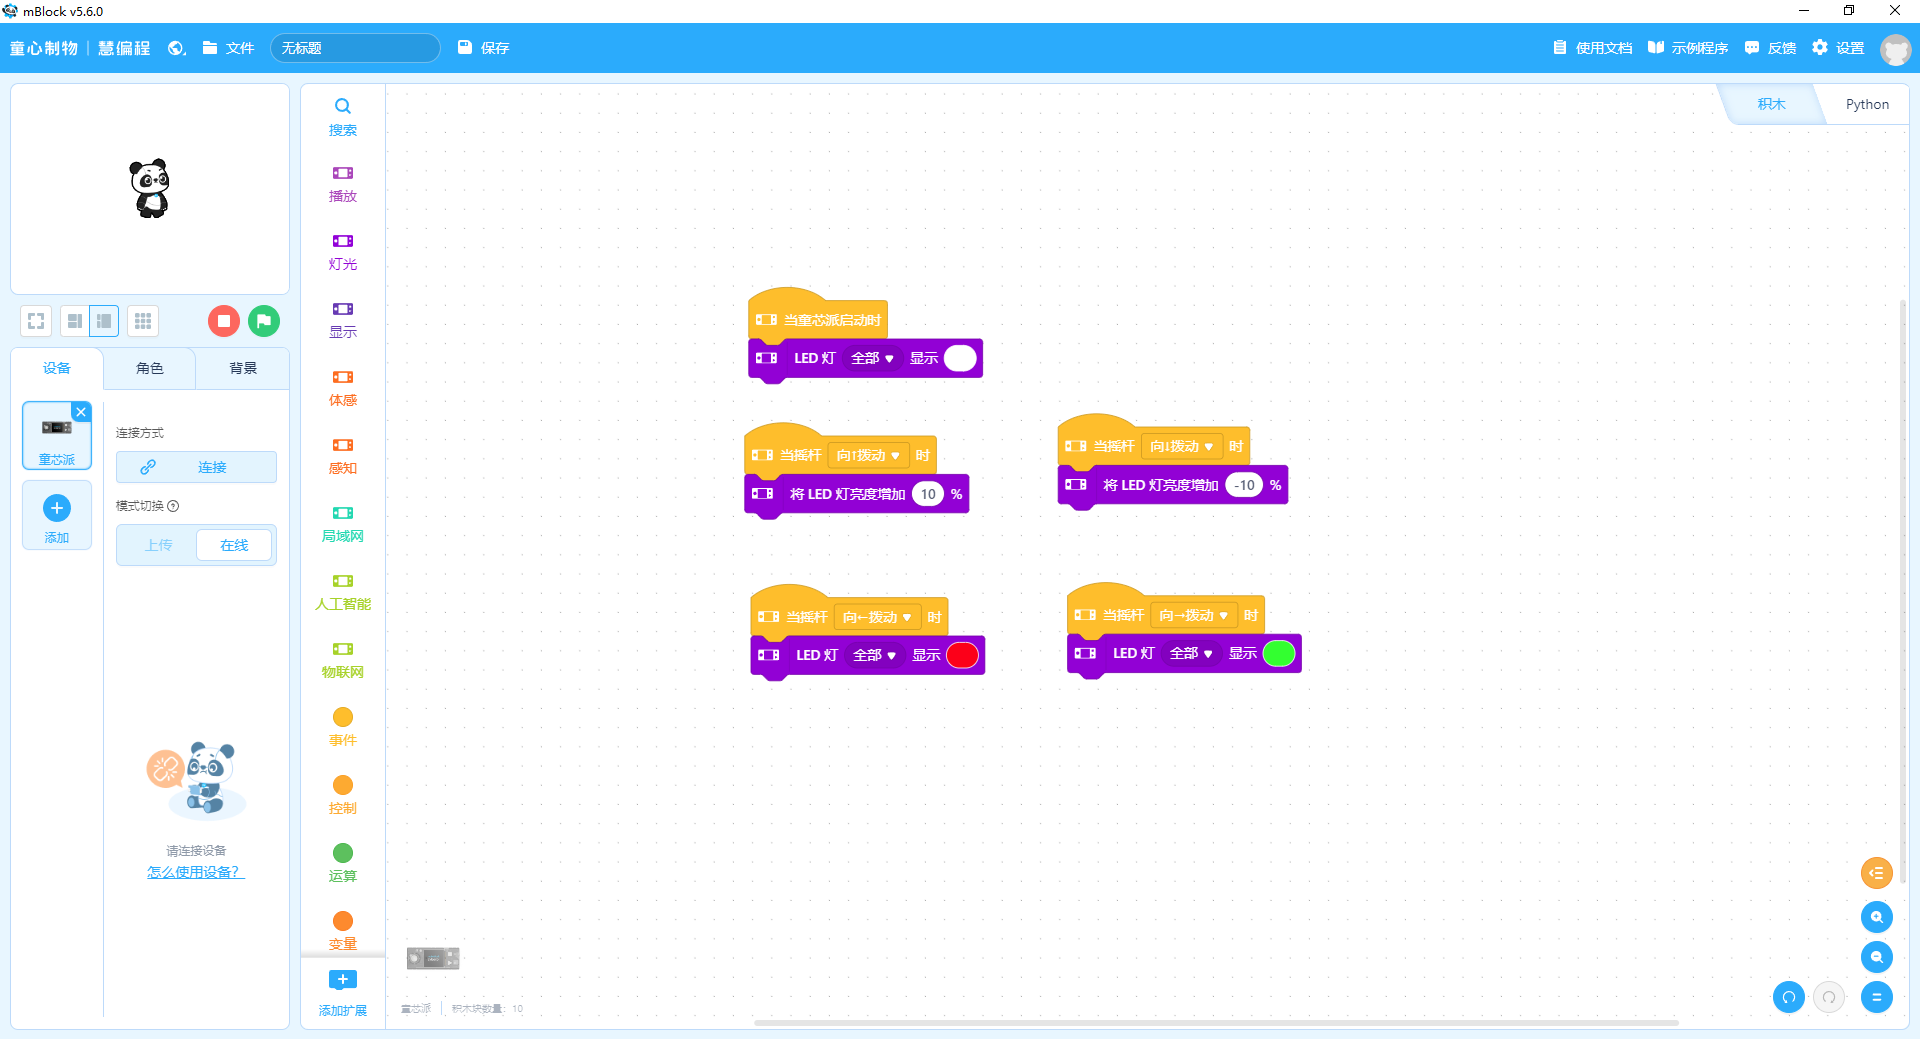
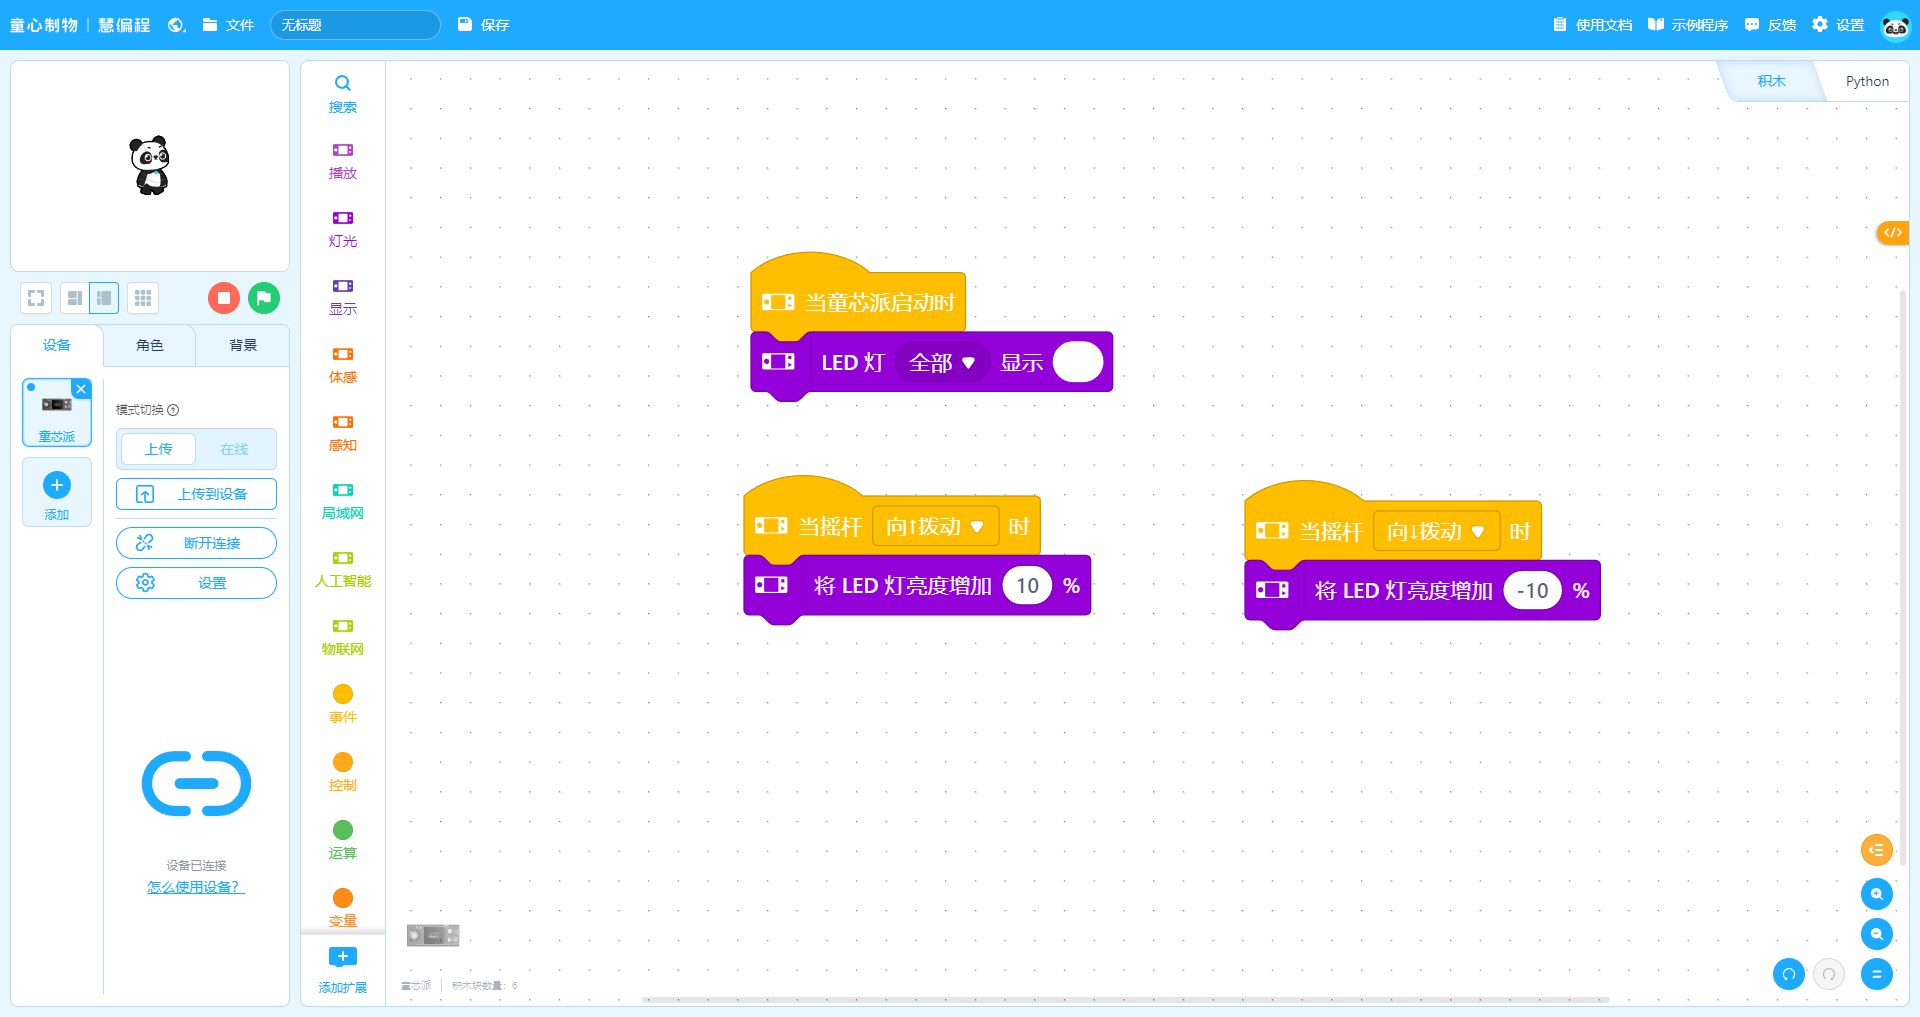
L10改版为摇杆调光器：00截图(上拨+10%/下拨-10%)→积木搭建示意图，01截图(四方向点亮LED灯1-4)→编程任务答案，同步标题/步骤/升级路线

diff --git a/AI编程探险课_CyberPi/index.html b/AI编程探险课_CyberPi/index.html
@@ -1110,18 +1110,18 @@ const LESSONS_2 = [
   quiz:[{q:"按A开灯、按B关灯，两个动作分别用什么事件？",o:["启动事件","按钮A/按钮B事件","摇杆事件","广播事件"],a:1,exp:"每个按钮有自己独立的事件积木，各管各的动作。"},{q:"“如果…那么…否则”属于哪个分类？",o:["事件","控制","显示","声音"],a:1,exp:"「如果…那么…否则」在控制分类里，让程序根据条件做选择。"},{q:"想让灯熄灭时屏幕显示“灯已关”，放在哪里？",o:["按钮A事件下","按钮B事件下","启动事件下","循环外"],a:1,exp:"放在「当按键 B 按下时」下面，按B关灯时就会显示。"}]
 },
 {
-  id:10, ch:2, title:"方向指挥灯", theme:"摇杆方向 · 多路输出",
-  echoId:10, echoTitle:"隔空指挥", echoBrief:"摇杆指挥灯带变色，屏幕同步显示方向",
-  story:"CyberPi上有一个摇杆，可以向不同方向拨动。团团想当小小指挥家：摇杆拨向哪里，CyberPi就用灯色和屏幕文字告诉大家方向。上=红色、下=蓝色、左=绿色、右=黄色，按压摇杆就恢复原样！",
-  knowledge:["认识摇杆（四方向+按压）","方向与灯色、文字一一对应","多路输入对应多路输出"],
-  blocks:[["事件", "当CyberPi启动时"], ["灯", "LED灯 全部 显示 白色"], ["事件", "当摇杆 向↑拨动 时"], ["灯", "LED灯 全部 显示 红色"], ["显示", "显示文字「上」"], ["事件", "当摇杆 向↓拨动 时"], ["灯", "LED灯 全部 显示 蓝色"], ["显示", "显示文字「下」"], ["事件", "当摇杆 向←拨动 时"], ["灯", "LED灯 全部 显示 绿色"], ["显示", "显示文字「左」"], ["事件", "当摇杆 向→拨动 时"], ["灯", "LED灯 全部 显示 黄色"], ["显示", "显示文字「右」"], ["事件", "当摇杆 被按压 时"], ["灯", "熄灭 LED灯 全部"], ["显示", "清空屏幕"]],
-  projName:"方向指挥灯",
-  projEff:"摇杆拨向哪个方向，灯带亮起对应颜色，屏幕同时显示方向文字；按压摇杆灯灭、屏幕清空，恢复初始状态。",
-  steps:["连接CyberPi并切换到上传模式", "拖入「当CyberPi启动时」，下方放「LED灯 全部 显示 白色」作为初始状态", "拖入「当摇杆 向↑拨动 时」，下方放「LED灯 全部 显示 红色」", "再接「显示文字“上”」，屏幕显示方向", "依次为下、左、右三个方向配置灯色和文字", "拖入「当摇杆 被按压 时」，下方放「熄灭 LED灯 全部」和「清空屏幕」", "上传后拨动四个方向、按压摇杆，观察灯色、文字和复位"],
-  challenge:"给每个方向搭配一个音效：上=嗨、下=拜、左=哔哔、右=打呼。",
-  tip:"摇杆有上、下、左、右、按压五个事件，就像五个按钮。每个事件下都可以放灯、屏幕、声音等输出积木，组合出各种玩法。",
+  id:10, ch:2, title:"摇杆调光器", theme:"摇杆 · 亮度调节",
+  echoId:10, echoTitle:"摇杆调光", echoBrief:"上拨变亮、下拨变暗，摇杆当调光旋钮",
+  story:"CyberPi的灯带不仅会变颜色，还能调节亮暗。团团想把灯带变成一盏可以调光的台灯：上拨摇杆变亮，下拨摇杆变暗。今天我们就用摇杆做一个小小调光器！",
+  knowledge:["认识摇杆（四方向+按压）","用摇杆方向控制亮度数值增减","数值调节让灯光亮暗可控"],
+  blocks:[["事件", "当CyberPi启动时"], ["灯", "LED灯 全部 显示"], ["事件", "当摇杆 向↑拨动 时"], ["灯", "将LED灯亮度增加 10 %"], ["事件", "当摇杆 向↓拨动 时"], ["灯", "将LED灯亮度增加 -10 %"]],
+  projName:"摇杆调光器",
+  projEff:"启动后灯带亮起；上拨摇杆亮度增加10%，下拨摇杆亮度减少10%，像调光旋钮一样控制灯光。",
+  steps:["连接CyberPi并切换到上传模式", "拖入「当CyberPi启动时」，下方放「LED灯 全部 显示」让灯带先亮起来", "拖入「当摇杆 向↑拨动 时」，下方放「将LED灯亮度增加 10 %」", "再拖入「当摇杆 向↓拨动 时」，下方放「将LED灯亮度增加 -10 %」", "上传后上拨摇杆灯变亮、下拨摇杆灯变暗，像调光旋钮一样控制亮度"],
+  challenge:"给调光器加点花样：试试每次增加20%，亮得更快；或者用左右方向切换灯带颜色。",
+  tip:"「将LED灯亮度增加 10 %」在现有亮度上再加10%（范围0-100%），用「增加 -10 %」就能变暗。上拨下拨配合，灯光就听你的话。",
   hardware:["CyberPi / 童芯派","Type-C 数据线","摇杆（内置）","RGB灯带","显示屏"],
-  quiz:[{q:"摇杆一共有几个独立事件？",o:["3个","4个","5个（四方向+按压）","2个"],a:2,exp:"上、下、左、右四个方向，再加上按压，一共5个事件。"},{q:"向上拨动摇杆，灯带亮什么颜色？",o:["红色","蓝色","绿色","黄色"],a:0,exp:"每个方向对应一种颜色：上红、下蓝、左绿、右黄。"},{q:"想恢复初始状态（灯灭、屏幕清空），用什么事件？",o:["当按键 A 按下","当摇杆 被按压 时","当CyberPi启动时","当摇杆 向↑拨动 时"],a:1,exp:"按压摇杆触发复位：灯熄灭、屏幕清空。"}]
+  quiz:[{"q": "上拨摇杆，灯光会怎样？", "o": ["变亮", "变暗", "熄灭", "不变"], "a": 0, "exp": "上拨对应「亮度增加 10 %」，灯光变亮。"}, {"q": "想让灯光变暗，应该让亮度？", "o": ["增加10%", "减少10%", "设为0", "不变"], "a": 1, "exp": "用「将LED灯亮度增加 -10 %」，亮度就降下来。"}, {"q": "亮度调节的范围是？", "o": ["0%到100%", "1%到50%", "永远不变", "随机变化"], "a": 0, "exp": "亮度在0%到100%之间变化，0%最暗、100%最亮。"}],
 },
 {
   id:11, ch:2, title:"彩虹变色灯", theme:"循环结构 · RGB循环",
@@ -1449,7 +1449,7 @@ const CURRICULUM_REFINEMENTS = {
   7:{meaning:"麦克风把声音大小变成数字（响度），程序读取并显示。学会读取传感器数值是感知环境的基础。",observe:"说话和拍手时，响度数值分别是多少？哪个更大？",hook:"点点对着CyberPi喊了一声，屏幕数字跳得好高，它“听见”了什么？",goal:"CyberPi启动后循环读取声音响度并实时显示在屏幕上。",watch:"轻声说话、大声喊、拍手，看看数值怎么变，记住每个动作的“分数”。",transfer:{name:"声音冠军赛",eff:"和同学比赛：谁的声音能让响度数值最高？",steps:["复制声音测量仪程序","同学A大声喊出自己名字，记录最高数值","同学B接着喊，记录最高数值","比较两人成绩，宣布声音冠军","再试唱歌、拍手等不同方式"],challenge:"设置一个“目标分数”（如80），达到时让灯亮一下。"}},
   8:{meaning:"陀螺仪能测量X、Y、Z三个轴的转动角度，理解设备在空间中的姿态。多传感器数据可同时显示。",observe:"左右倾斜时X轴怎么变？前后倾斜时Y轴怎么变？",hook:"团团把CyberPi转来转去，屏幕数字跟着变，它怎么知道自己怎么转的？",goal:"CyberPi启动后交替显示X轴和Y轴的转动角度，随设备倾斜实时变化。",watch:"前后左右倾斜CyberPi，看X、Y轴数字的变化方向，找出规律。",transfer:{name:"水平仪",eff:"做一个水平仪：设备放平时显示“平”，倾斜时显示“歪”。",steps:["复制平衡测量仪程序","读取X轴角度并显示","用如果积木判断：角度小于10显示“平”","角度大于10显示“歪”","上传后放平、倾斜测试"],challenge:"增加Z轴显示，看看转圈时Z轴怎么变化。"}},
   9:{meaning:"按钮事件+条件分支：按A开灯、按B关灯。条件积木让程序根据情况做出不同反应。",observe:"按A灯亮，按B灯灭。如果先按B再按A会怎样？",hook:"团团的房间里有个小夜灯，按下开关灯就亮。CyberPi的开关怎么装？",goal:"按A键RGB灯带亮起白色，按B键灯带熄灭并显示“灯已关”。",watch:"先按A看灯亮，再按B看灯灭和文字提示。两个按钮各干各的活。",transfer:{name:"桌面小台灯",eff:"把灯光开关改造成小台灯：按A亮暖光，按B熄灭，摇杆调节亮度。",steps:["复制灯光开关程序","按A键把灯改成暖黄色（黄+少量红）","增加摇杆向上拨动时亮度调亮","增加摇杆向下拨动时亮度调暗","上传后模拟台灯使用"],challenge:"让灯亮起时屏幕同时显示“灯已开”。"}},
-  10:{meaning:"多路事件输入：摇杆上/下/左/右/按压对应不同输出。每个方向是独立事件，程序像遥控器一样响应每条指令。",observe:"拨动四个方向，灯色和屏幕文字分别是什么？按压摇杆后发生了什么？",hook:"团团想当小小指挥家：摇杆指向哪里，灯就变什么颜色、屏幕就显示什么方向！",goal:"摇杆上/下/左/右拨动时灯带分别亮红/蓝/绿/黄并在屏幕显示方向，按压摇杆灯灭并清空屏幕。",watch:"依次拨动上、下、左、右，看灯色与文字是否一一对应；再按压摇杆，看灯灭屏清。",transfer:{name:"方向指示棒",eff:"给每个方向加音效：上=嗨、下=拜、左=哔哔、右=打呼。",steps:["复制方向指挥灯程序","在每个方向事件下加「播放声音」","上=嗨、下=拜、左=哔哔、右=打呼","按压时停止所有声音并复位","上传后闭眼听声音，猜摇杆指向哪里"],challenge:"按压摇杆时灯带依次闪烁一圈再熄灭。"}},
+  10:{meaning:"多路事件输入：摇杆上/下/左/右/按压对应不同输出。每个方向是独立事件，程序像遥控器一样响应每条指令。",observe:"上拨摇杆灯光变亮，下拨变暗；如果改成左右拨动，程序会怎样？",hook:"团团想用摇杆给CyberPi的灯带当调光旋钮：上拨变亮、下拨变暗！",goal:"上拨摇杆亮度增加10%，下拨摇杆亮度减少10%，用摇杆控制灯光亮暗。",watch:"上拨→变亮，下拨→变暗；连拨几下看看亮度停在哪个范围。",transfer:{name:"方向指挥灯",eff:"四个方向分别点亮1-4号LED灯（红/蓝/绿/黄），做一盏方向指挥灯。",steps:["复制摇杆调光器程序","添加四个摇杆方向事件：向↑/↓/←/→拨动 时","分别放入「LED灯 1/2/3/4 显示」，颜色选红、蓝、绿、黄","上传后拨动四个方向，看对应编号的灯亮起","试试再给每个方向配一种音效，闭眼听声音猜方向"],challenge:"按压摇杆时让四颗灯依次点亮一圈再熄灭。"}},
   11:{meaning:"循环结构让一组积木反复执行。循环+颜色轮转=彩虹灯效。循环是编程最重要的结构之一。",observe:"循环里的积木按什么顺序反复执行？红绿蓝循环一次要多久？",hook:"点点想要一条彩虹，CyberPi的灯带能变成流动的彩虹吗？",goal:"让RGB灯带在红、绿、蓝之间循环切换，每种颜色停留1秒。",watch:"看灯带颜色循环：红→绿→蓝→红→绿→蓝……数数一次循环要几秒。",transfer:{name:"五色彩虹",eff:"在红绿蓝基础上增加紫色和橙色，做一条五色彩虹。",steps:["复制彩虹变色灯程序","在蓝色后面增加紫色（红+蓝）亮1秒","再增加橙色（红+黄）亮1秒","调整等待时间让彩虹更流畅","上传观察五色循环"],challenge:"让彩虹方向反过来（蓝→绿→红）。"}},
   12:{meaning:"RGB灯带5颗灯有编号，可以单独控制。循环+灯带索引=跑马灯效果。",observe:"5颗灯按什么顺序亮起？从1到5还是从5到1？",hook:"团团和点点玩接力赛，灯带上的5颗灯能不能也来一场接力？",goal:"让5颗灯依次亮起红色（1→2→3→4→5），然后全部熄灭，循环成跑马灯。",watch:"看灯光从第1颗跑到第5颗，像马儿跑步一样。",transfer:{name:"倒着跑的马",eff:"让跑马灯反向跑：从第5颗亮到第1颗。",steps:["复制跑马灯程序","把亮灯顺序改成5→4→3→2→1","每颗灯亮起后等待0.3秒","上传观察反向跑马灯","再试试来回跑"],challenge:"让跑马灯每轮换一种颜色。"}},
   13:{meaning:"变量是程序的记忆格，可以存数字。用变量当计数器，让循环和灯带序号联动。",observe:"变量从1开始每次加1，5次后变量变成几？",hook:"点点看到河水流动，灯光能像河水一样流起来吗？",goal:"用变量“灯序号”从1数到5，每次点亮对应编号的灯，形成流水效果。",watch:"看灯光从第1颗流到第5颗，注意变量每次加1。",transfer:{name:"来回流水灯",eff:"让灯光从1流到5再流回1，来回流动。",steps:["复制流水灯程序","把重复次数改成10次","第6次开始让序号递减","用如果积木判断序号方向","上传观察来回流动"],challenge:"流水速度用摇杆控制。"}},
@@ -1839,12 +1839,12 @@ var SAMPLE_CONTENT = {
     fullCodeShot:"assets/blocks/lesson-09/full-program.png"
   },
   10:{
-    driving:"摇杆拨向哪个方向，灯带亮起对应颜色，屏幕同时显示方向文字；按压摇杆灯灭、屏幕清空，恢复初始状态。",
-    deliverable:"摇杆拨向哪个方向，灯带亮起对应颜色，屏幕同时显示方向文字；按压摇杆灯灭、屏幕清空，恢复初始状态。",
+    driving:"启动后灯带亮起；上拨摇杆亮度增加10%、下拨减少10%，用摇杆当调光旋钮。升级后四个方向分别点亮1-4号彩色灯。",
+    deliverable:"启动后灯带亮起；上拨摇杆亮度增加10%、下拨减少10%，用摇杆当调光旋钮。",
     prep:["CyberPi / 童芯派","Type-C 数据线","摇杆（内置）","RGB灯带","显示屏"],
-    stepTitles:["连接CyberPi并切换…", "拖入「当CyberPi启…", "拖入「当摇杆 向↑拨动 …", "再接「显示文字“上”」，…", "依次为下、左、右三个方向…", "拖入「当摇杆 被按压 时…", "上传后拨动四个方向、按压…"],
+    stepTitles:["连接CyberPi并切换…", "拖入「当CyberPi启…", "拖入「当摇杆 向↑拨动 …", "再拖入「当摇杆 向↓拨动…", "上传后上拨摇杆灯变亮、下…"],
     phases:["认识积木","搭建程序","上传验证","真机测试","创意挑战"],
-    levels:[["必做任务","完成方向指挥灯：四个方向对应红/蓝/绿/黄灯并显示方向文字，按压摇杆灯灭屏清。"],["加星任务","给每个方向加音效：上=嗨、下=拜、左=哔哔、右=打呼，闭眼听声音猜方向。"],["创造任务","按压摇杆时让灯带依次闪烁一圈再熄灭（用循环+等待），并说出每个方向用了什么事件积木。"]],
+    levels:[["必做任务", "完成摇杆调光器：上拨摇杆亮度增加10%，下拨摇杆亮度减少10%。"], ["加星任务", "升级为方向指挥灯：四个方向分别点亮 LED灯 1/2/3/4，颜色为红/蓝/绿/黄。"], ["创造任务", "给每个方向配一种音效，闭眼听声音猜方向；或按压摇杆时让四颗灯依次点亮一圈再熄灭。"]],
     tests:[["上传后启动","CyberPi按预期运行","初始化"],["触发输入事件","程序做出对应反应","事件响应"],["观察输出","灯光/屏幕/声音符合预期","输出正确"],["断电重启","程序仍能独立运行","上传模式验证"]],
     bugs:[["程序没反应","检查是否切换到上传模式、程序是否上传成功。"],["输出不正确","检查积木是否接在正确事件下、参数是否设置正确。"],["上传失败","检查Type-C线是否支持数据传输、CyberPi是否被识别。"]],
     reflection:["本课用到了哪些积木分类？它们各自负责什么？","如果换一种输入或输出方式，程序还能怎么改？"],
